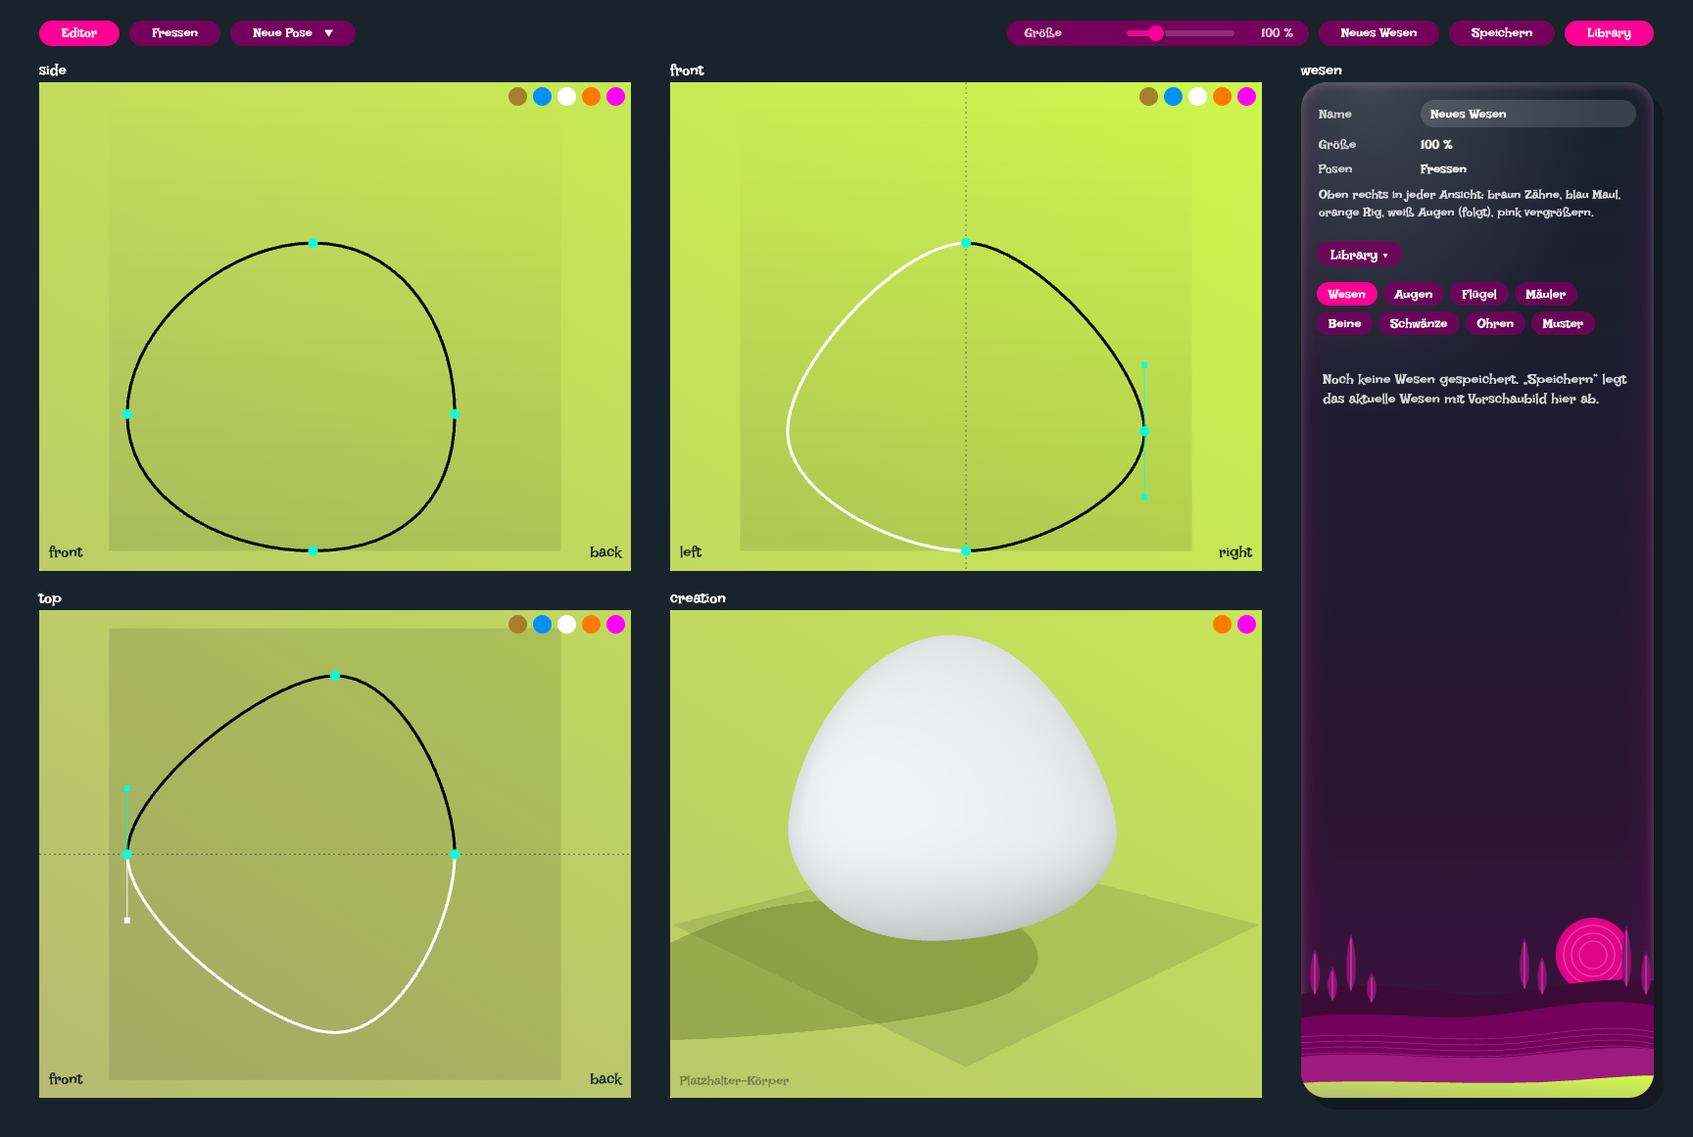
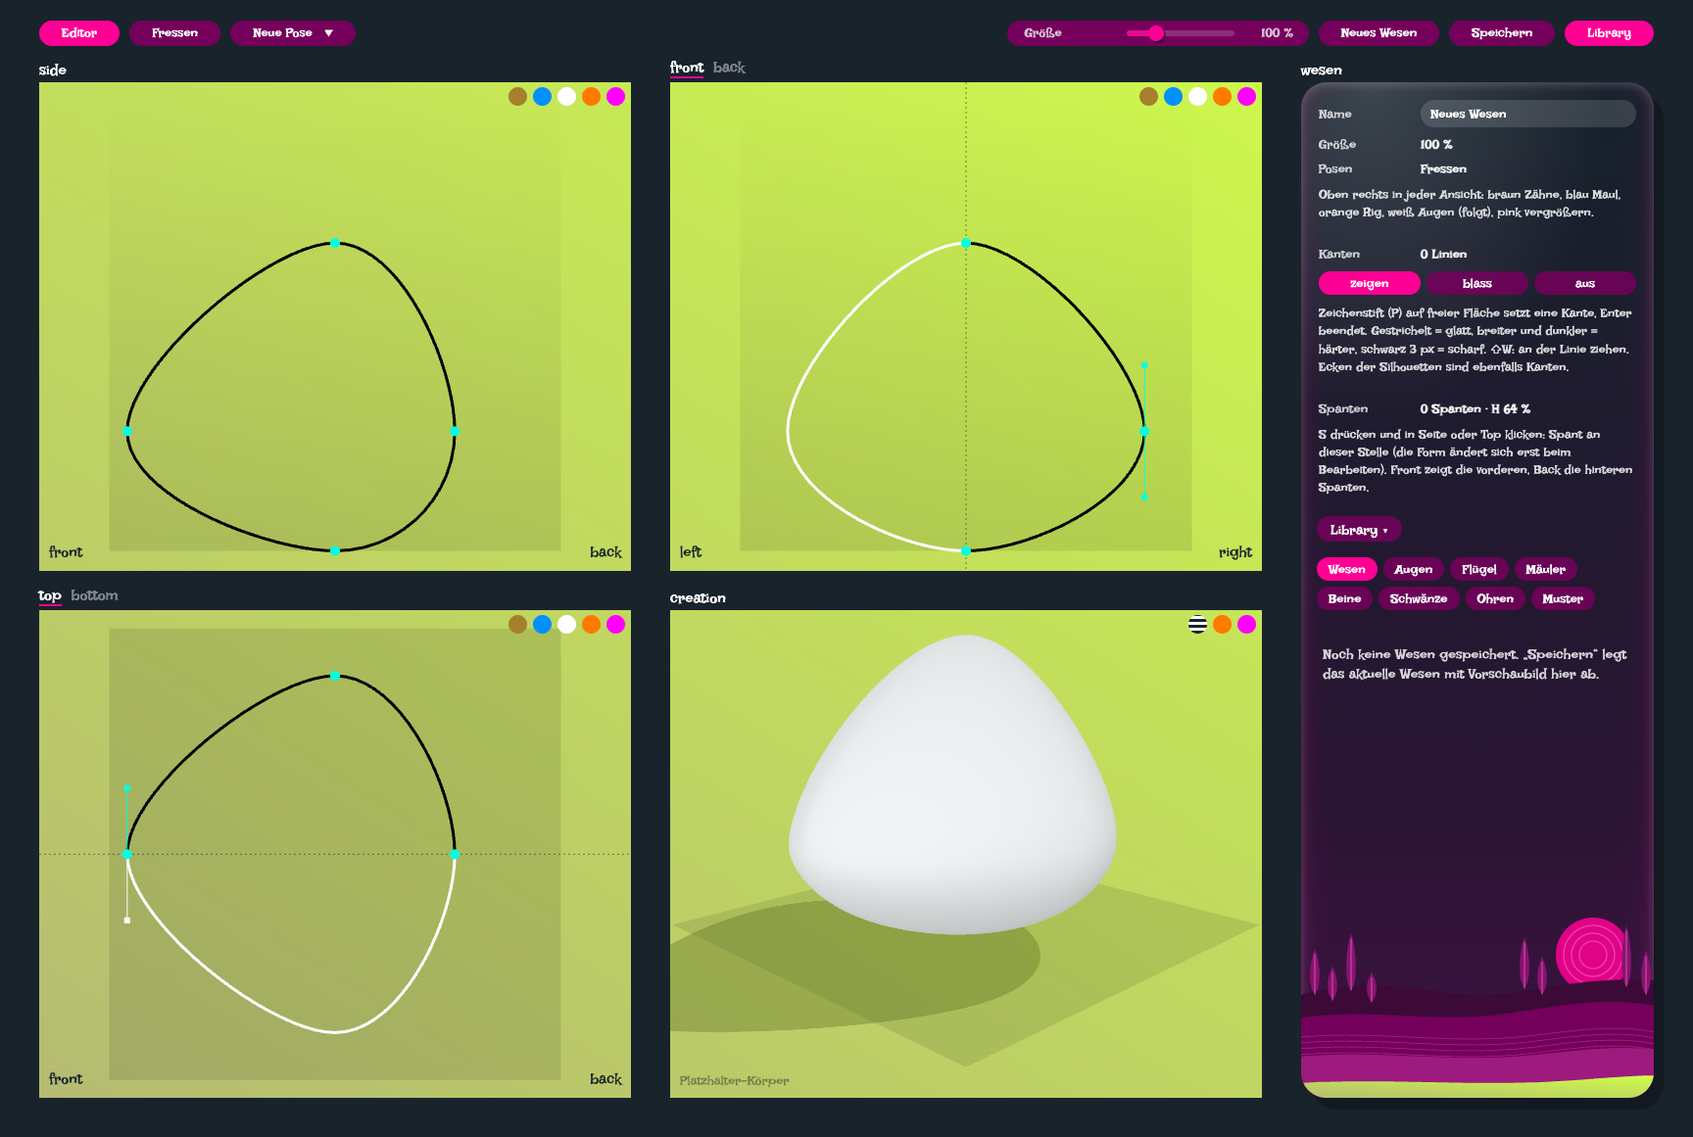
Kopplung der Ansichten am entsprechenden Punkt (Florian 12.10. abends): Zieht man den oberen Front-Punkt hoch, wandert in der Seite nur der oberste Punkt samt Griffen statt der ganzen Ansicht mit quadratischem Abfall; Punkte bis 5 % darunter gehen anteilig mit, beim Schrumpfen wird Höheres auf das Z

diff --git a/packages/shape/src/kopplung.ts b/packages/shape/src/kopplung.ts
@@ -2,8 +2,14 @@
 //
 // Je zwei Ansichten teilen eine Weltachse: Seite ↔ Front die Höhe (y), Seite ↔ Top die Länge (x),
 // Front ↔ Top die Breite (z). Ändert sich in einer Ansicht die Ausdehnung auf einer geteilten Achse,
-// folgt die andere Ansicht sofort: Ihr äußerster Punkt geht genau mit, die übrigen Punkte abgestuft
-// (wie proportionales Bearbeiten in Blender, quadratischer Abfall zum gegenüberliegenden Rand).
+// folgt die andere Ansicht sofort.
+//
+// Beim Bearbeiten (`abgleichen`) geht nur der entsprechende Punkt mit: der äußerste Teil der Kurve samt seinen
+// Griffen, Punkte knapp darunter (Band 5 % der Ausdehnung) anteilig, alles andere bleibt stehen. Der oberste Punkt
+// der Front und der oberste Punkt der Seite sind derselbe Punkt des Körpers (Florian 12.10.: „Ich würde erwarten,
+// dass im Sideview auch nur der oberste Punkt nach oben wandert“). Vorher (11.10.) folgte die ganze andere Ansicht
+// mit quadratischem Abfall; das bleibt für `angleichen` (widersprüchliche Dokumente beim Laden glatt verteilt
+// reparieren).
 
 import type { V2 } from './bezier';
 import type { Ansicht, Dokument } from './dokument';
@@ -44,7 +50,38 @@ function querZurSpiegelachse(pr: Profil, k: Koord): boolean {
   return pr.art === 'halb' && ((pr.achse === 'senkrecht' && k === 'x') || (pr.achse === 'waagerecht' && k === 'y'));
 }
 
-function abbilden(pr: Profil, k: Koord, anker: number, L: number, delta: number): Profil {
+/** Band unter dem äußersten Punkt, in dem Punkte anteilig mitgehen (Anteil der Ausdehnung). */
+export const KOPPEL_BAND = 0.05;
+
+export type Kopplungsart = 'punkt' | 'verteilt';
+
+/**
+ * Nur der äußerste Teil wandert: Kontrollpunkte (Knoten und Griff-Enden) im Abstand e vom Anker werden auf
+ * e + Δ·w(e) abgebildet, w = 0 unterhalb des Bands, 1 am äußersten Punkt und darüber (Griff-Enden außerhalb der
+ * Kurve). Beim Schrumpfen liegt das Band unter dem Ziel, Höheres wird darauf zusammengedrückt (monoton).
+ */
+function abbildenPunkt(pr: Profil, k: Koord, anker: number, richtung: 1 | -1, L: number, delta: number): Profil {
+  const s = Math.max(0, (delta >= 0 ? L : L + delta) - KOPPEL_BAND * L);
+  // Verschiebung je Koordinate (0 außerhalb des Bands: unberührte Punkte und Griffe bleiben bitgenau)
+  const v = (c: number) => {
+    const w = Math.min(1, Math.max(0, (richtung * (c - anker) - s) / (L - s)));
+    return w > 0 ? richtung * delta * w : 0;
+  };
+  const knoten = pr.knoten.map((kn) => {
+    const c = kn.p[k];
+    const vp = v(c);
+    const griff = (h: V2): V2 => {
+      const vh = v(c + h[k]) - vp;
+      return vh === 0 ? h : k === 'x' ? { x: h.x + vh, y: h.y } : { x: h.x, y: h.y + vh };
+    };
+    const p = vp === 0 ? kn.p : k === 'x' ? { x: c + vp, y: kn.p.y } : { x: kn.p.x, y: c + vp };
+    return { ...kn, p, ein: griff(kn.ein), aus: griff(kn.aus) };
+  });
+  return achsenRegeln({ ...pr, knoten });
+}
+
+/** Ganze Ansicht mit quadratischem Abfall zum Anker (Verfahren vom 11.10., jetzt nur noch für `angleichen`). */
+function abbildenVerteilt(pr: Profil, k: Koord, anker: number, L: number, delta: number): Profil {
   // Exponent 2 (lokaler Abfall); beim Schrumpfen kleiner, damit die Abbildung monoton bleibt
   let exp = 2;
   if (delta / L < 0) exp = Math.max(1, Math.min(2, (0.85 * L) / -delta));
@@ -67,10 +104,40 @@ function abbilden(pr: Profil, k: Koord, anker: number, L: number, delta: number)
 }
 
 /**
- * Verformt ein Profil so, dass seine Ausdehnung entlang `k` am Ende `ende` den Wert `ziel` erreicht.
- * Der gegenüberliegende Rand (bzw. bei Halbprofilen die Spiegelachse) bleibt stehen.
+ * Verformt ein Profil so, dass seine Ausdehnung entlang `k` am Ende `ende` den Wert `ziel` erreicht (bei Halbprofilen
+ * quer zur Achse: den Abstand `ziel` von der Achse). Der gegenüberliegende Rand bzw. die Spiegelachse bleibt stehen.
+ * `punkt`: nur der äußerste Teil wandert; `verteilt`: die ganze Ansicht mit quadratischem Abfall.
  */
-export function verformen(pr: Profil, k: Koord, ende: 'min' | 'max', ziel: number): Profil {
+export function verformen(pr: Profil, k: Koord, ende: 'min' | 'max', ziel: number, art: Kopplungsart = 'punkt'): Profil {
+  if (art === 'verteilt') return verformenVerteilt(pr, k, ende, ziel);
+  const halb = querZurSpiegelachse(pr, k);
+  const [lo, hi] = ausdehnung(pr, k);
+  const anker = halb ? 0 : ende === 'max' ? lo : hi;
+  const richtung: 1 | -1 = halb ? (Math.abs(hi) >= Math.abs(lo) ? 1 : -1) : ende === 'max' ? 1 : -1;
+  const L = halb ? Math.max(Math.abs(lo), Math.abs(hi)) : hi - lo;
+  const zielAbstand = halb ? ziel : richtung * (ziel - anker);
+  if (L < EPS || Math.abs(zielAbstand - L) < EPS) return pr;
+  const messen = (p: Profil) => {
+    const [l2, h2] = ausdehnung(p, k);
+    return halb ? Math.max(Math.abs(l2), Math.abs(h2)) : richtung * ((ende === 'max' ? h2 : l2) - anker);
+  };
+  // Die Kurve folgt dem Zug nicht immer 1:1 (äußerster Punkt zwischen zwei Knoten) → Ziel per Sekante nachführen
+  let delta = zielAbstand - L;
+  let ergebnis = pr;
+  let vorher: { d: number; fehler: number } | null = null;
+  for (let i = 0; i < 8; i++) {
+    const d = Math.max(delta, -0.95 * L);
+    ergebnis = abbildenPunkt(pr, k, anker, richtung, L, d);
+    const fehler = zielAbstand - messen(ergebnis);
+    if (Math.abs(fehler) < 1e-7) break;
+    const steigung = vorher && Math.abs(d - vorher.d) > 1e-12 ? (vorher.fehler - fehler) / (d - vorher.d) : 1;
+    vorher = { d, fehler };
+    delta = d + fehler / (steigung > 0.05 ? steigung : 1);
+  }
+  return ergebnis;
+}
+
+function verformenVerteilt(pr: Profil, k: Koord, ende: 'min' | 'max', ziel: number): Profil {
   const halb = querZurSpiegelachse(pr, k);
   const [lo, hi] = ausdehnung(pr, k);
   const ext = halb ? Math.max(Math.abs(lo), Math.abs(hi)) : ende === 'max' ? hi : lo;
@@ -81,7 +148,7 @@ export function verformen(pr: Profil, k: Koord, ende: 'min' | 'max', ziel: numbe
   let delta = ziel - ext;
   let ergebnis = pr;
   for (let i = 0; i < 4; i++) {
-    ergebnis = abbilden(pr, k, anker, L, delta);
+    ergebnis = abbildenVerteilt(pr, k, anker, L, delta);
     const [l2, h2] = ausdehnung(ergebnis, k);
     const ext2 = halb ? Math.max(Math.abs(l2), Math.abs(h2)) : ende === 'max' ? h2 : l2;
     const fehler = ziel - ext2;
@@ -95,7 +162,7 @@ export function verformen(pr: Profil, k: Koord, ende: 'min' | 'max', ziel: numbe
  * Gleicht die beiden anderen Ansichten an die Ansicht `quelle` an. `basis` liefert die Ausgangsform der
  * anderen Ansichten (beim Ziehen der Stand vom Gestenbeginn, damit sich nichts aufschaukelt).
  */
-export function abgleichen(profile: Profile, quelle: Ansicht, basis: Profile = profile): Profile {
+export function abgleichen(profile: Profile, quelle: Ansicht, basis: Profile = profile, art: Kopplungsart = 'punkt'): Profile {
   const ergebnis: Profile = { ...basis, [quelle]: profile[quelle] };
   for (const [a, b, achse] of GETEILT) {
     if (a !== quelle && b !== quelle) continue;
@@ -105,18 +172,21 @@ export function abgleichen(profile: Profile, quelle: Ansicht, basis: Profile = p
     const q = profile[quelle];
     if (achse === 'z') {
       const [lo, hi] = ausdehnung(q, kq);
-      ergebnis[andere] = verformen(ergebnis[andere], ka, 'max', Math.max(Math.abs(lo), Math.abs(hi)));
+      ergebnis[andere] = verformen(ergebnis[andere], ka, 'max', Math.max(Math.abs(lo), Math.abs(hi)), art);
     } else {
       const [lo, hi] = ausdehnung(q, kq);
-      ergebnis[andere] = verformen(verformen(ergebnis[andere], ka, 'max', hi), ka, 'min', lo);
+      ergebnis[andere] = verformen(verformen(ergebnis[andere], ka, 'max', hi, art), ka, 'min', lo, art);
     }
   }
   return ergebnis;
 }
 
-/** Macht ein (z. B. geladenes) Dokument stimmig: Seite gibt Höhe und Länge vor, Front die Breite. */
+/**
+ * Macht ein (z. B. geladenes) Dokument stimmig: Seite gibt Höhe und Länge vor, Front die Breite. Die Korrektur
+ * verteilt sich über die ganze Ansicht, damit größere Widersprüche keine Beule an einem Punkt machen.
+ */
 export function angleichen(profile: Profile): Profile {
-  return abgleichen(abgleichen(profile, 'seite'), 'front');
+  return abgleichen(abgleichen(profile, 'seite', profile, 'verteilt'), 'front', undefined, 'verteilt');
 }
 
 /** Abweichung der geteilten Ausdehnungen (0 = stimmig); für Tests und Prüfungen. */

diff --git a/packages/shape/src/kopplung.test.ts b/packages/shape/src/kopplung.test.ts
@@ -1,7 +1,7 @@
 import { describe, expect, it } from 'vitest';
 import { neuesDokument } from './dokument';
-import { abgleichen, abweichung, angleichen, ausdehnung } from './kopplung';
-import { START_RADIUS, bewegeGriff, bewegeKnoten } from './profil';
+import { KOPPEL_BAND, abgleichen, abweichung, angleichen, ausdehnung } from './kopplung';
+import { type Profil, START_RADIUS, bewegeGriff, bewegeKnoten } from './profil';
 
 const r = START_RADIUS;
 
@@ -63,6 +63,76 @@ describe('Kopplung der Ansichten', () => {
     const nachher = g.seite.knoten.map((k) => k.p.y);
     for (let i = 0; i < vorher.length; i++)
       for (let j = 0; j < vorher.length; j++) if (vorher[i]! < vorher[j]! - 1e-9) expect(nachher[i]!).toBeLessThan(nachher[j]! + 1e-9);
+  });
+
+  // Florian 12.10.: „Wenn ich bei der Kugel im Frontview den oberen Punkt nach oben ziehe, würde ich erwarten, dass im
+  // Sideview auch nur der oberste Punkt nach oben wandert.“ Der oberste Punkt beider Ansichten ist derselbe Körperpunkt.
+  it('Front: oberen Punkt hochziehen → in der Seite wandert nur der oberste Punkt, die Seitenpunkte bleiben', () => {
+    const p = neuesDokument().profile;
+    const front = bewegeKnoten(p.front, 0, { x: 0, y: 0.75 });
+    const g = abgleichen({ ...p, front }, 'front');
+    expect(g.seite.knoten[0]!.p.y).toBeCloseTo(0.75, 6);
+    // Griffe des obersten Punkts wandern mit (bleiben waagerecht)
+    expect(g.seite.knoten[0]!.ein.y).toBeCloseTo(p.seite.knoten[0]!.ein.y, 12);
+    expect(g.seite.knoten[0]!.aus.y).toBeCloseTo(p.seite.knoten[0]!.aus.y, 12);
+    for (const i of [1, 2, 3]) expect(g.seite.knoten[i]).toEqual(p.seite.knoten[i]);
+  });
+
+  it('Seite: obersten Punkt hochziehen → in der Front nur der Achspunkt oben, die Flanke bleibt', () => {
+    const p = neuesDokument().profile;
+    const seite = bewegeKnoten(p.seite, 0, { x: 0, y: 0.7 });
+    const g = abgleichen({ ...p, seite }, 'seite');
+    expect(g.front.knoten[0]!.p.y).toBeCloseTo(0.7, 6);
+    for (const i of [1, 2]) expect(g.front.knoten[i]).toEqual(p.front.knoten[i]);
+    expect(g.top).toEqual(p.top);
+  });
+
+  it('Top: Spitze nach vorn → in der Seite nur die Schnauzenspitze, Ober- und Unterpunkt bleiben', () => {
+    const p = neuesDokument().profile;
+    const top = bewegeKnoten(p.top, 0, { x: -0.45, y: 0 });
+    const g = abgleichen({ ...p, top }, 'top');
+    const spitze = g.seite.knoten.reduce((a, k) => (k.p.x < a.p.x ? k : a));
+    expect(spitze.p.x).toBeCloseTo(-0.45, 6);
+    expect(spitze.p.y).toBeCloseTo(r, 9);
+    const andere = g.seite.knoten.filter((k) => k !== spitze);
+    expect(andere).toEqual(p.seite.knoten.filter((k) => k.p.x > -r + 1e-9));
+  });
+
+  it('Punkte knapp unter dem äußersten (Band 5 %) gehen anteilig mit, tiefere bleiben', () => {
+    // flacher Rücken: zwei Knoten oben, der zweite 2,5 % der Höhe tiefer (halb im Band)
+    const h = 2 * r;
+    const glatt = (x: number, y: number, ein: { x: number; y: number }, aus: { x: number; y: number }) => ({ p: { x, y }, ein, aus, art: 'glatt' as const });
+    const seite: Profil = {
+      art: 'geschlossen',
+      knoten: [
+        glatt(-0.08, h, { x: -0.06, y: 0 }, { x: 0.06, y: 0 }),
+        glatt(0.08, h * (1 - KOPPEL_BAND / 2), { x: -0.06, y: 0 }, { x: 0.06, y: 0 }),
+        glatt(r, r, { x: 0, y: 0.12 }, { x: 0, y: -0.12 }),
+        glatt(0, 0, { x: 0.14, y: 0 }, { x: -0.14, y: 0 }),
+        glatt(-r, r, { x: 0, y: -0.12 }, { x: 0, y: 0.12 }),
+      ],
+    };
+    const p = { ...neuesDokument().profile, seite };
+    const [, oben] = ausdehnung(seite, 'y');
+    const front = bewegeKnoten(p.front, 0, { x: 0, y: oben + 0.1 });
+    const g = abgleichen({ ...p, seite, front: { ...front, knoten: front.knoten.map((k, i) => (i === 0 ? { ...k, p: { x: 0, y: oben + 0.1 } } : k)) } }, 'front');
+    const hub = (i: number) => g.seite.knoten[i]!.p.y - seite.knoten[i]!.p.y;
+    expect(ausdehnung(g.seite, 'y')[1]).toBeCloseTo(oben + 0.1, 6);
+    expect(hub(0)).toBeGreaterThan(0.09);
+    expect(hub(1)).toBeGreaterThan(0.2 * hub(0));
+    expect(hub(1)).toBeLessThan(0.8 * hub(0));
+    for (const i of [2, 3, 4]) expect(g.seite.knoten[i]).toEqual(seite.knoten[i]);
+  });
+
+  it('Schrumpfen: Höheres wird auf das Ziel gedrückt, die Seitenpunkte bleiben, solange sie darunter liegen', () => {
+    const p = neuesDokument().profile;
+    const front = bewegeKnoten(p.front, 0, { x: 0, y: 0.4 });
+    const g = abgleichen({ ...p, front }, 'front');
+    // die Front wölbt sich am Griff der Flanke knapp über den Punkt (0,4002)
+    expect(ausdehnung(g.seite, 'y')[1]).toBeCloseTo(ausdehnung(front, 'y')[1], 6);
+    expect(g.seite.knoten[1]!.p).toEqual(p.seite.knoten[1]!.p);
+    expect(g.seite.knoten[3]!.p).toEqual(p.seite.knoten[3]!.p);
+    expect(abweichung(g)).toBeLessThan(1e-4);
   });
 
   it('angleichen macht ein widersprüchliches Dokument stimmig', () => {

diff --git a/apps/editor/CLAUDE.md b/apps/editor/CLAUDE.md
@@ -13,7 +13,7 @@ Wird geladen, sobald eine Sitzung in `apps/editor` arbeitet (zusätzlich zur Roo
 - **Nachtrag 11.10.:** Auswahlrechteck wie Illustrator in den drei Shape-Viewports (⇧ schaltet um), ⇧-Klick, gemeinsames Ziehen, **Pfeiltasten wie Illustrator** (Schritt 0,002 Kachel ≈ 1 pt, ⇧ zehnfach, je Schritt ein Undo). Auswahl je Ansicht als Liste (`auswahl: Record<Ansicht, number[]>`).
 - Maximierter Viewport bleibt auf seiner Seite; Speichern und Library funktionieren echt.
 - Die **echte Bauweise** (Profile → Körper, Augen, Flügel, Posen/Blendshapes) folgt in einer großen Sitzung ab 12.10. Bis dahin ist der 3D-Körper der **Platzhalter-Loft** in `packages/shape/src/platzhalter/loft.ts`: Die Seite bestimmt Länge und Höhe, das Top die Breitenverteilung (auf die Länge der Seite gestreckt), die Front den Querschnitt. Feste Vertexzahl.
-- **Nachtrag 11.10. nachmittags — ein Objekt:** „Es soll ja alles ein und dasselbe Objekt sein. Wenn ich im Frontview etwas verschiebe, muss das auch in den anderen Shapes passieren, live.“ Umsetzung: Die geteilten Ausdehnungen sind gekoppelt (Seite ↔ Front y, Seite ↔ Top x, Front ↔ Top z, gemessen an der Kurve, nicht nur an den Knoten). Die andere Ansicht folgt mit proportionalem Abfall (Exponent 2), gerechnet vom Gestenbeginn. Code: `packages/shape/src/kopplung.ts`, `src/editing/gekoppelt.ts`. Direkte Züge bleiben Illustrator-artig (nur der gezogene Punkt bewegt sich).
+- **Nachtrag 11.10. nachmittags — ein Objekt:** „Es soll ja alles ein und dasselbe Objekt sein. Wenn ich im Frontview etwas verschiebe, muss das auch in den anderen Shapes passieren, live.“ Umsetzung: Die geteilten Ausdehnungen sind gekoppelt (Seite ↔ Front y, Seite ↔ Top x, Front ↔ Top z, gemessen an der Kurve, nicht nur an den Knoten). Die andere Ansicht folgt mit proportionalem Abfall (Exponent 2), gerechnet vom Gestenbeginn (**abgelöst 12.10. abends**, siehe unten). Code: `packages/shape/src/kopplung.ts`, `src/editing/gekoppelt.ts`. Direkte Züge bleiben Illustrator-artig (nur der gezogene Punkt bewegt sich).
 - **Nachtrag 11.10. — 3D drehen:** „3D-View lässt sich noch nicht drehen“ (vermutlich Trackpad). Jetzt dreht die linke oder rechte Taste, ebenso ⌃-Klick und Zwei-Finger-Wischen. ⇧ verschiebt, Pinch und Mausrad zoomen. Trackpad-Erkennung: `istTrackpad` (Chrome: wheelDeltaY = −3 · deltaY).
 - ~~Automatische Punkte~~ — **verworfen 11.10. nachmittags:** „Das mit den Punkten, die sich von selbst setzen, gefällt mir nicht. Mach es genau wie in Illustrator. Ich setze neue Punkte dann von Hand … auch wie bei Illustrator.“ Jetzt: Zeichenstift P (Klick auf Kurve = Punkt, auf Punkt = löschen, ⌥ = umwandeln), + / −, A/V/Esc = Direktauswahl, Rechtsklickmenü bleibt. Löschen passt die Nachbargriffe an (kleinste Quadrate mit Nachparametrisierung, `loeschen` in `packages/shape/src/profil.ts`). Die Kopplung fügt nie Punkte ein. Für Posen gilt später: gemeinsame Punktstruktur, Einfügen formtreu in allen Posen, Netz mit fester Auflösung.
 
@@ -42,6 +42,12 @@ Wird geladen, sobald eine Sitzung in `apps/editor` arbeitet (zusätzlich zur Roo
   - Florian: „Das mit den Kanten und Härten scheint mir noch nicht ganz schlüssig.“ Antwort und Regel: **Eine Kante ist eine Ecke in einem Shape** (Silhouette = quer, Spant = längs). Der Winkel kommt aus der Form, die Härte ist die Rundung. Freie Linien bleiben Sonderfall; Vorschlag: Knickwinkel statt Tiefe.
   - **Spanten** (`packages/shape/src/spanten.ts`, `src/spanten/SpantEbene.tsx`): Werkzeug S in Seite/Top, Spantlinien S1 … Sn und H ziehbar, Front = vordere, Back = hintere Spanten, Bearbeiten wie ein Profil, Seitenleiste `SpantBereich`.
   - Back bleibt (hintere Spanten, Linien auf Rücken und Schwanz); ein Spantenriss als eigene Ansicht wäre die Alternative.
+
+- **Nachtrag 12.10. abends — Kopplung nur am entsprechenden Punkt:**
+  - Florian: Zieht er bei der Kugel den oberen Front-Punkt hoch, erwartet er, dass in der Seite nur der oberste Punkt wandert und nicht das ganze Gitter skaliert.
+  - Jetzt (`abgleichen`, Art `punkt`): Nur der äußerste Teil der Kurve wandert samt Griffen. Kontrollpunkte bis `KOPPEL_BAND` = 5 % darunter gehen anteilig mit, alles andere bleibt bitgenau stehen. Beim Schrumpfen wird Höheres auf das Ziel gedrückt.
+  - `angleichen` (Laden, nachgezogene Bögen) verteilt weiter mit quadratischem Abfall (Art `verteilt`), sonst entstünden Beulen.
+  - Bild `docs/progress/editor/kopplung-punkt.png`, Skript `scripts/kopplung-bild.mjs`.
 
 ## Arbeitsweise
 

diff --git a/docs/research/2026-10-12-kanten-ansichten.md b/docs/research/2026-10-12-kanten-ansichten.md
@@ -223,6 +223,34 @@ So ist es zu lesen:
   - Back zeigt die hinteren Spanten und die Linien auf Rücken, Schwanz und Hinterbeinen.
   - Alternative für später: eine eigene Spantenriss-Ansicht, links hinten und rechts vorn wie im Schiffbau.
 
+### Fragen danach (12.10. abends)
+
+**Braucht es einen oberen und einen unteren Spant?** Nein, einer reicht.
+- Ein Spant ist immer der ganze Querschnitt: von oben über die Flanke bis unten, links gespiegelt.
+- Waagerechte Schnitte (Wasserlinien in Top/Bottom) braucht es als Eingabe auch nicht. Die Silhouetten geben die Längsrichtung vor, die Spanten die Querrichtung. Eine zweite Schnittschar wäre schon festgelegt und könnte der ersten nur widersprechen. Als Anzeige zum Prüfen der Glätte wären sie möglich, wie im Linienriss des Schiffbaus.
+- Was eine Spantschar nicht kann:
+  - Überhänge (Hals nach oben, eingerollter Schwanz): Dafür braucht es die Wirbelsäule.
+  - Abzweigungen (Beine, Hörner, Ohren): Das werden eigene Teile.
+  - Kleine Beulen (Wange, Braue) gehen, sind aber umständlich: Ein Spant läuft ganz herum, also einen Spant davor und einen dahinter setzen (sie ändern die Form nicht) und den mittleren formen. Bequemer wäre später ein örtliches Werkzeug.
+
+**Hat das 3D schon mit dem späteren Wesen zu tun?** Die Form ja, das Aussehen noch nicht.
+- Das Dokument speichert nur, was gezeichnet ist (Silhouetten, Spanten, Kanten, Maul, Zähne). Das 3D wird daraus jedes Mal neu gebaut, und das Spiel baut später aus derselben Datei.
+- Die Bauweise bleibt (Shapes → Loft → Käfig), die Form im 3D folgt den Silhouetten auf 0,2–0,3 px.
+- Vorläufig sind:
+  - das Netz darunter: feste Ringe, für Hälse kommt die Wirbelsäule, Maul und Kanten werden zusammengeführt
+  - das Aussehen: Weiß mit Matcap dient nur zum Beurteilen der Form; das Earle-Material kommt später
+  - Rig und Animation
+
+**Kopplung der Ansichten umgestellt** (Florian: Zieht er bei der Kugel den oberen Front-Punkt hoch, erwartet er, dass in der Seite nur der oberste Punkt wandert, nicht auch die Seitenpunkte):
+- **Bisher (11.10.):** Die andere Ansicht wurde mit quadratischem Abfall gestreckt. Oben ging sie voll mit, auf halber Höhe ¼, unten gar nicht. Das hob die Seitenpunkte an, und Front und Seite lagen danach nicht mehr auf gleicher Höhe.
+- **Neu:**
+  - Nur der entsprechende Punkt wandert, samt seinen Griffen. Der oberste Punkt der Front und der oberste der Seite sind derselbe Punkt des Körpers.
+  - Punkte bis 5 % der Ausdehnung darunter gehen anteilig mit, damit ein flacher Rücken flach bleibt.
+  - Beim Schrumpfen wird alles, was über dem Ziel liegt, darauf gedrückt.
+  - Das gilt für alle drei geteilten Achsen (Höhe, Länge, Breite).
+- **Beim Laden** widersprüchlicher Dokumente bleibt die verteilte Korrektur, sonst gäbe es Beulen an einzelnen Punkten.
+- **Code und Prüfung:** `packages/shape/src/kopplung.ts` (`KOPPEL_BAND`), Tests in `kopplung.test.ts`. Bild `docs/progress/editor/kopplung-punkt.png` (Ausgang, bisher, neu), erzeugt mit `apps/editor/scripts/kopplung-bild.mjs`.
+
 ## 5. Recherche (Hintergrund-Recherche 12.10. mittags, mit Quellen)
 
 **Kurzantworten der Recherche:**

diff --git a/docs/UEBERGABE.md b/docs/UEBERGABE.md
@@ -47,6 +47,11 @@ Dazu:
 - **Datenmodell:** `dok.spanten?: { f, profil }[]`, `dok.hauptspant?: number`.
 - **Tests:** `spanten.test.ts` (8), `kanten.test.ts` (Spant-Ecke), E2E `spanten.spec.ts`. Alle 16 E2E grün.
 - **Bilder:** `docs/progress/editor/spanten-schnauze-{editor,3d,zebra}.png`, `spanten-tab.png`.
+- **Kopplung der Ansichten umgestellt** (Florian, abends):
+  - Beim Bearbeiten wandert in den anderen Ansichten nur der entsprechende Punkt mit seinen Griffen. Punkte bis 5 % darunter gehen anteilig mit, alles andere bleibt.
+  - Beim Laden bleibt die verteilte Korrektur.
+  - Code `kopplung.ts` (`KOPPEL_BAND`), Bild `kopplung-punkt.png`.
+- Antworten auf „oberer/unterer Spant?“ und „hat das 3D mit dem Wesen zu tun?“ im Nachtrag des Ergebnis-Dokuments.
 
 **Nachmittag (Florians Rückmeldung 12.10. mittags):**
 - **Kiefer verbunden:**
